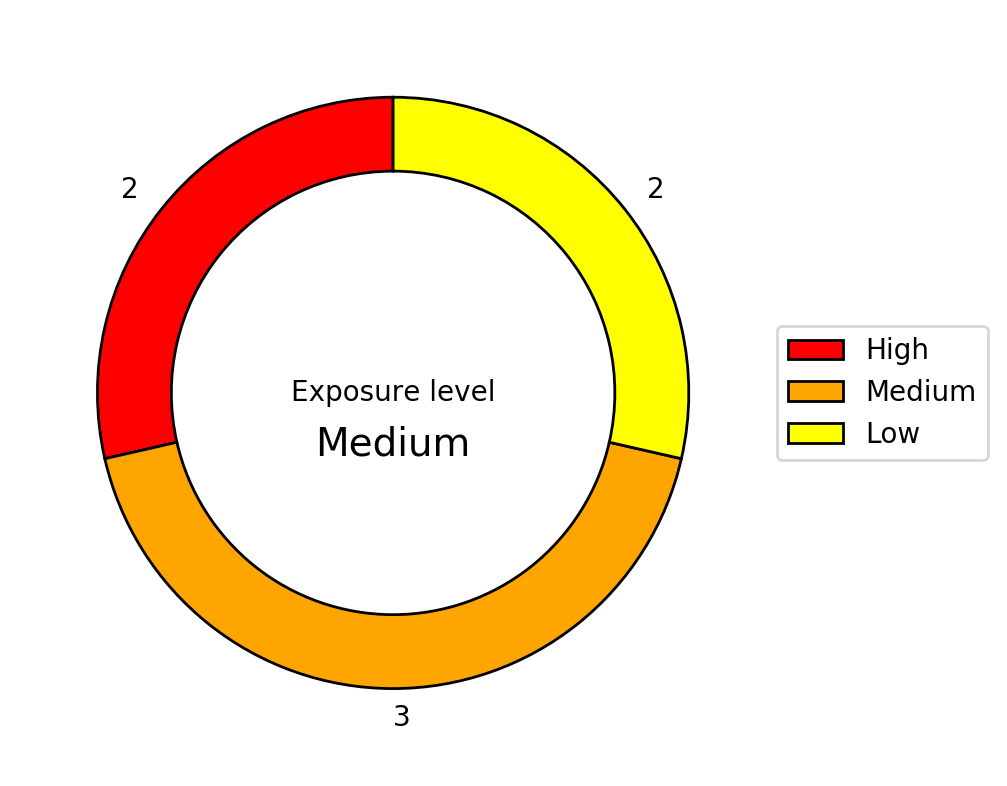
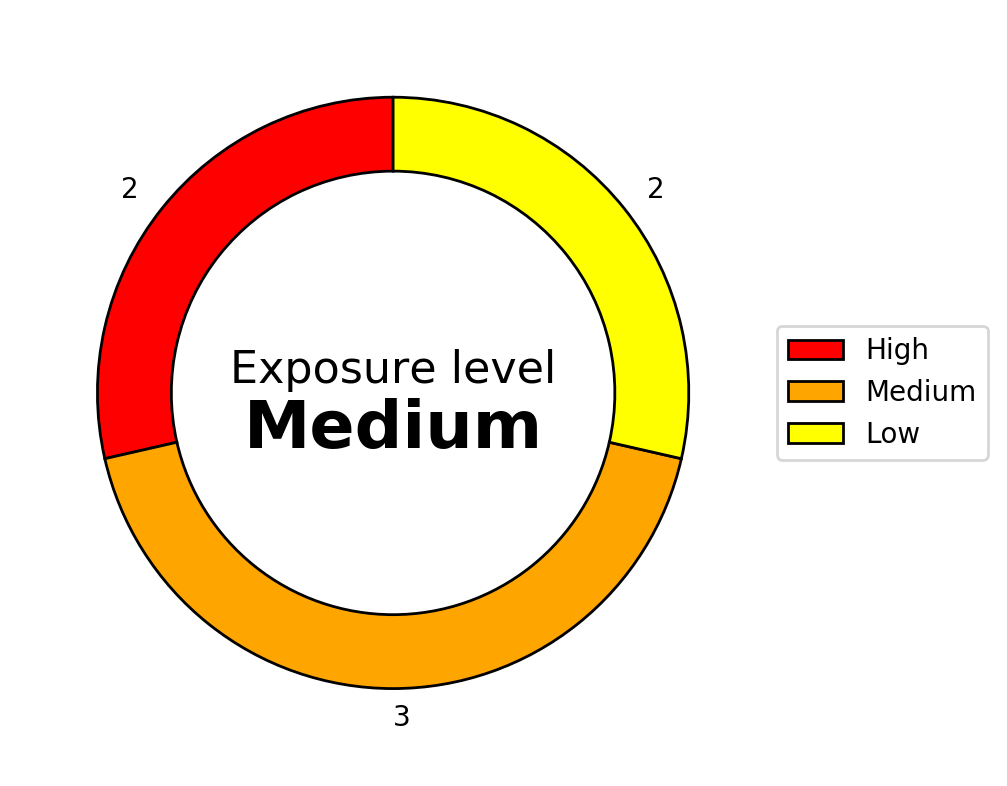
fix ring exposure level

Changed region(s): [[0.2155, 0.4275, 0.5541, 0.5802]]

diff --git a/rpg.py b/rpg.py
@@ -91,10 +91,10 @@ def ring(args):
         exposure_level = "Low"
 
     # Print exposure level
-    ax.text(0.5, 0.5, "Exposure level", transform=ax.transAxes, fontsize=10,
+    ax.text(0.5, 0.53, "Exposure level", transform=ax.transAxes, fontsize=16,
             horizontalalignment='center', verticalalignment='center')
-    ax.text(0.5, 0.43, exposure_level, transform=ax.transAxes, fontsize=14,
-            horizontalalignment='center', verticalalignment='center')
+    ax.text(0.5, 0.45, exposure_level, transform=ax.transAxes, fontsize=24,
+            horizontalalignment='center', verticalalignment='center', weight='bold')
 
     # Print legend
     ax.legend(labels, loc="center left", bbox_to_anchor=(1, 0.5), ncol=1)
